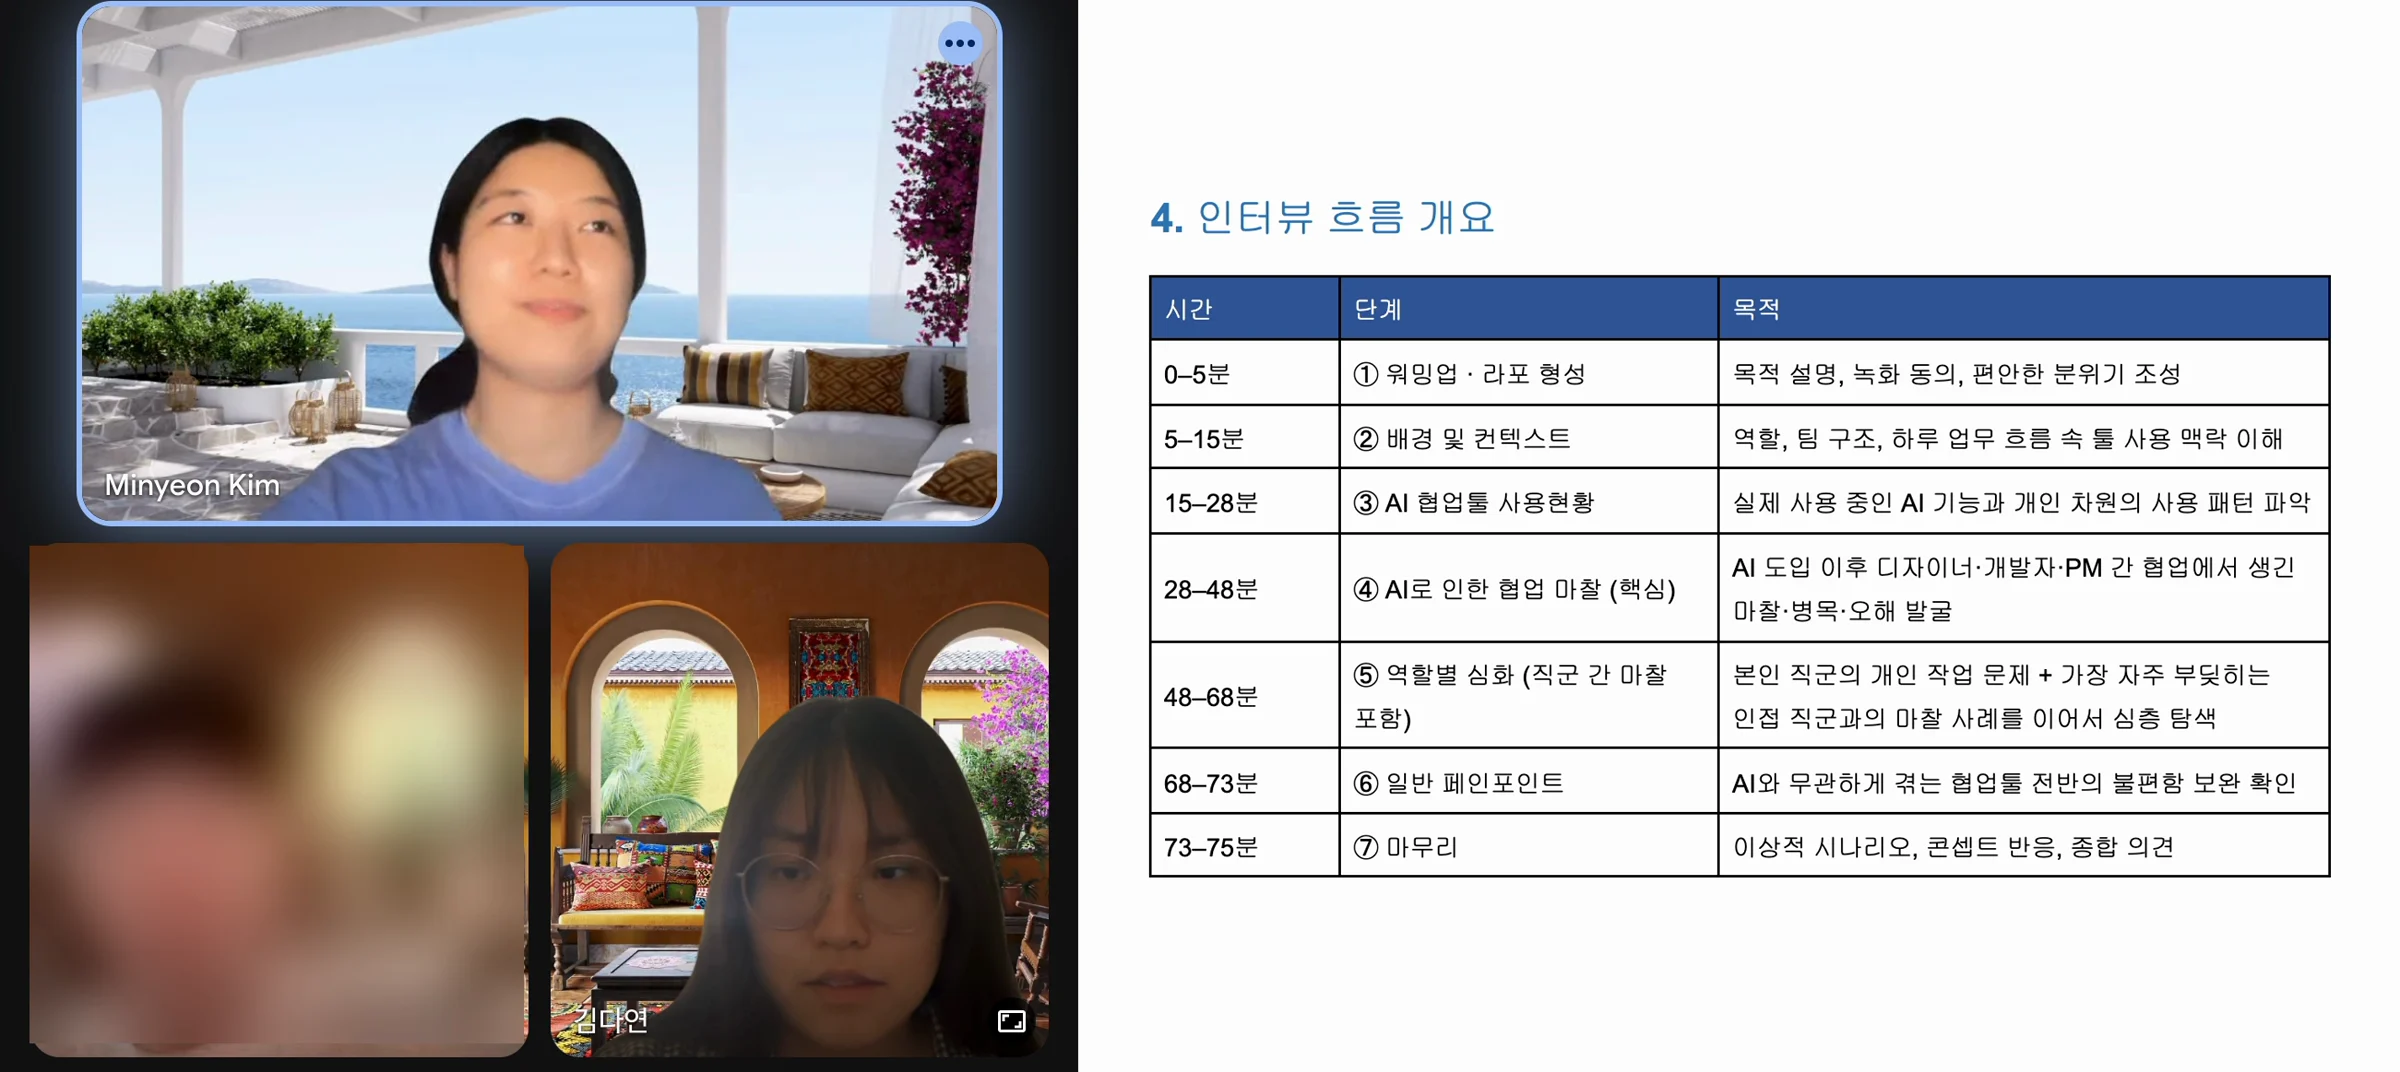
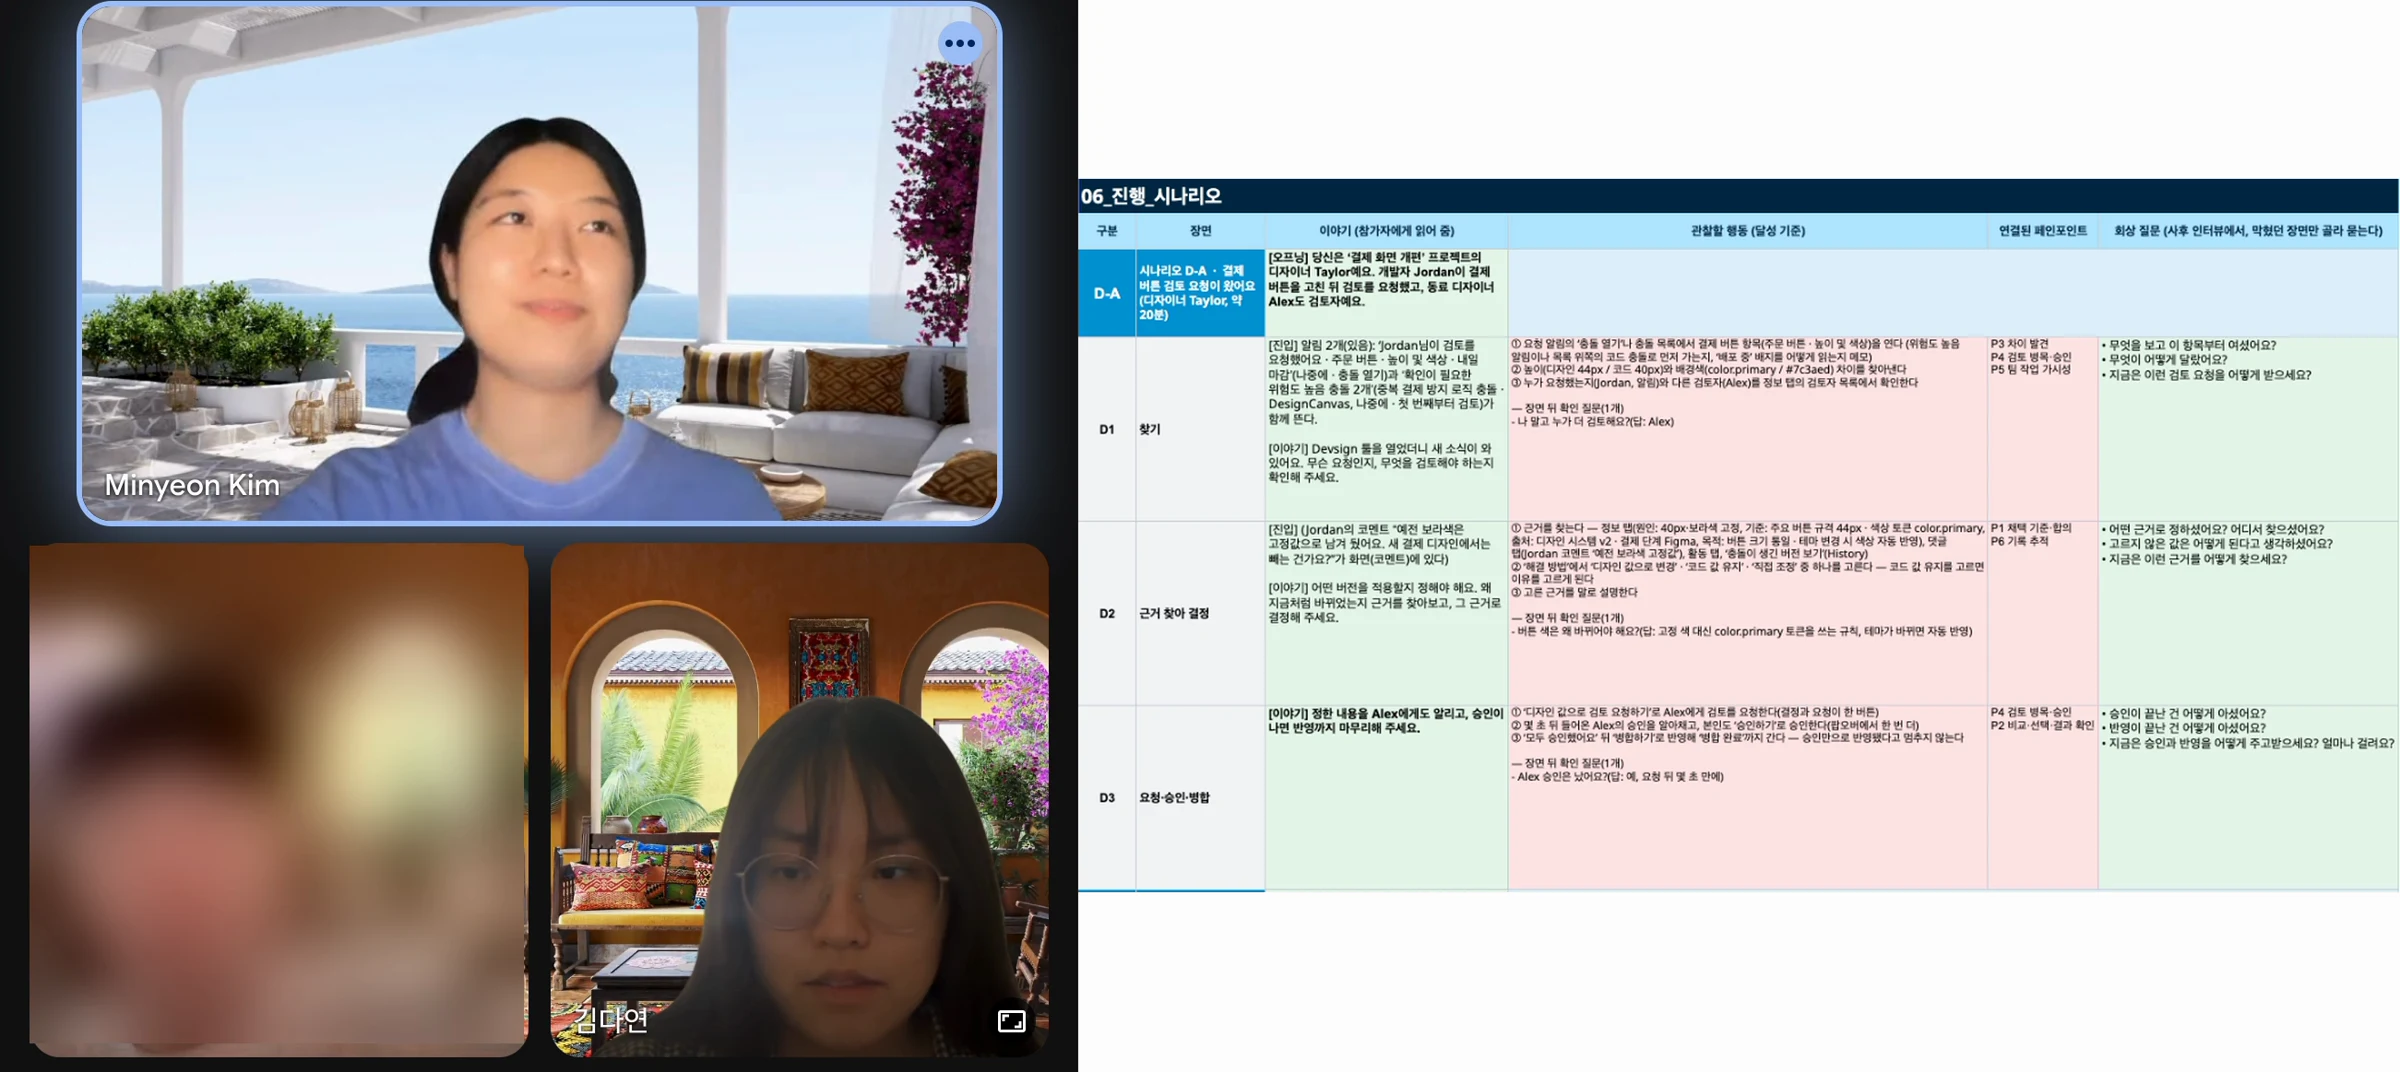
Devsign interview image: session sheet from the research documents

diff --git a/claude.md b/claude.md
@@ -1186,7 +1186,7 @@ Devsign user flow is one main path (owner: 21 equal boxes still weren't easy; re
 
 Review pass against references (2026-11-04; owner skipped role split and resume for now, not ready). Text never depends on scroll position: scroll-linked opacity and fill are off for funnel, community columns, Analysis sentences, research questions and headlines (blocks arrive once through the reveal units, which supersedes the statement fill and the row and count scroll notes); parallax and the board and photo scroll grows are off too. Still tied to scroll: stage opening, section title (done once fully on screen), data bars, Problem statement scale, pinned reels and Iteration 2. Stage nav steps aside while scrolling down and returns on any scroll up (`data-away`, keyboard focus keeps it). What isn't current drops to the muted colour, never to low opacity, so it stays AA (Key problem rows, core feature sentences; supersedes the 55% and 0.28 values). Landing: the first case's card shows by default on desktop too (not over About hover or the portrait); phones paint the headline at once with no typing or scramble (typing needs JS and held LCP back; supersedes the scramble rule below 48rem); dust starts when the page is idle, on phones 1.2s after load; only the case opener preloads its loop. Process boards dim in the dark theme (value canvas, affinity board), the tool table's "What we didn't find" is a tint, the Takeaway photo is 640px, stage padding 160 (phones 96), About's deck 220-300px. Phones: the IA shows nodes only, affinity themes show name and insight without stickies, pills are opaque. Korean Devsign block labels are in Korean; chapter names stay English. Figma not updated.
 
-Devsign interview image is a real capture from the 2026-08-24 20:02 recording at 1:35, a moment with Minyeon smiling (her eyes open; 김다연 looks down, no moment found with both smiling), beside section 4 (session flow table) of the protocol document in Drive, AI시대_협업마찰_인터뷰_프로토콜_v7, exported to PDF, page 5 (owner asked for the document, not what the recording shows; ~/Movies/인터뷰_UT_녹화본, kept outside the repo; naming project_type_date_time, KST): Meet tiles beside the question guide, 2400×1072, browser chrome, meeting title and storage banner cropped out. Only the participant's tile and name are blurred (owner's call); Minyeon and 김다연 are shown. Replaces the earlier example image. Figma not updated.
+Devsign interview image is a real capture from the 2026-08-24 20:02 recording at 1:35, a moment with Minyeon smiling (her eyes open; 김다연 looks down, no moment found with both smiling), beside the session sheet 06_진행_시나리오 of Devsign_Usability_Test_Documentation_v31 in Drive, scenario D-A only (owner's choice: the Excel session sheet, not the recording or the interview protocol's flow table). It is a usability test document inside the interview image, flagged to the owner (~/Movies/인터뷰_UT_녹화본, kept outside the repo; naming project_type_date_time, KST): Meet tiles beside the question guide, 2400×1072, browser chrome, meeting title and storage banner cropped out. Only the participant's tile and name are blurred (owner's call); Minyeon and 김다연 are shown. Replaces the earlier example image. Figma not updated.
 
 
 Devsign affinity board plays by itself (owner: choosing was the wrong default; supersedes "hover or press only"): from the first column, 6s per theme, left to right, looping, while 40% of it is on screen. The bar on the current tab is the timer (`dv-aff-fill`, animationend picks the next). Hover or keyboard focus holds it, pointing at a tab or column still picks a theme, and a 44px round button on the board stops and restarts it (`affinity.autoLabels`; WCAG 2.2.2). Reduced motion never plays. Phones keep the list. Figma not updated.
